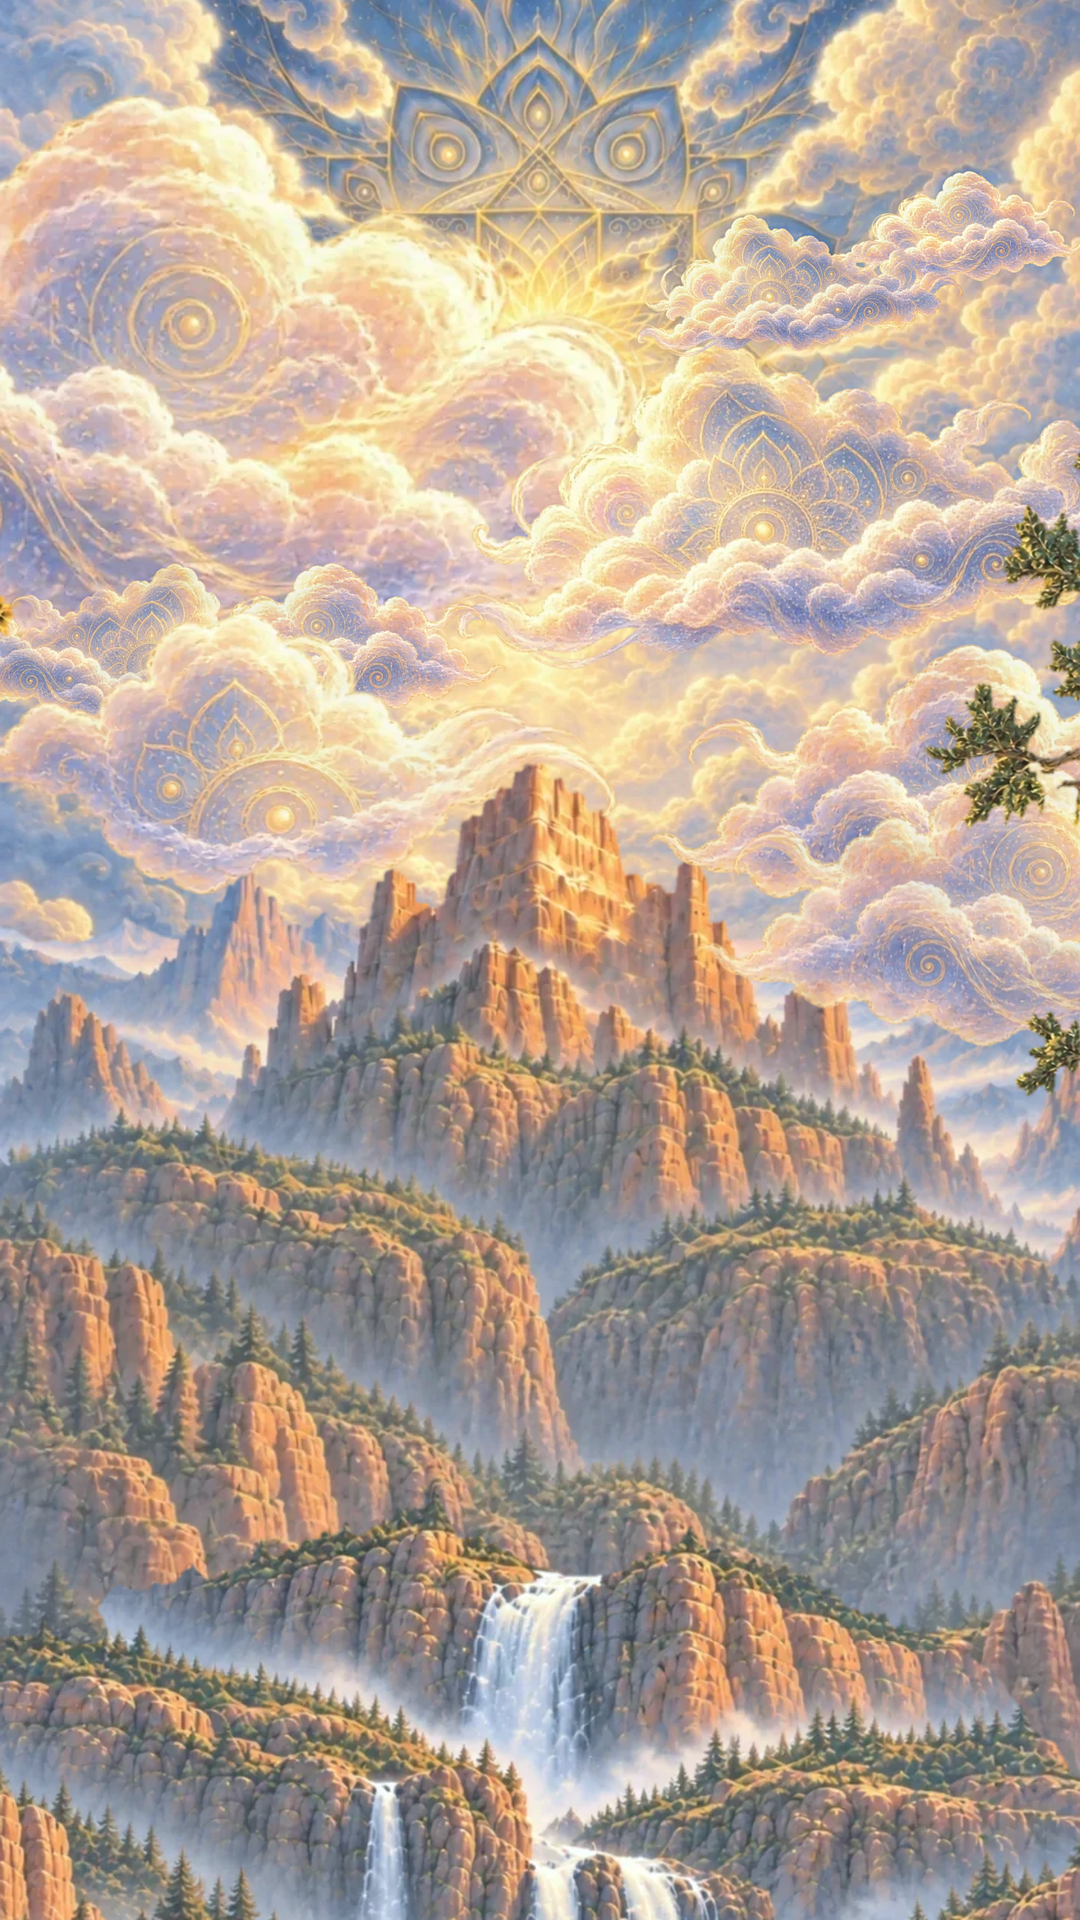
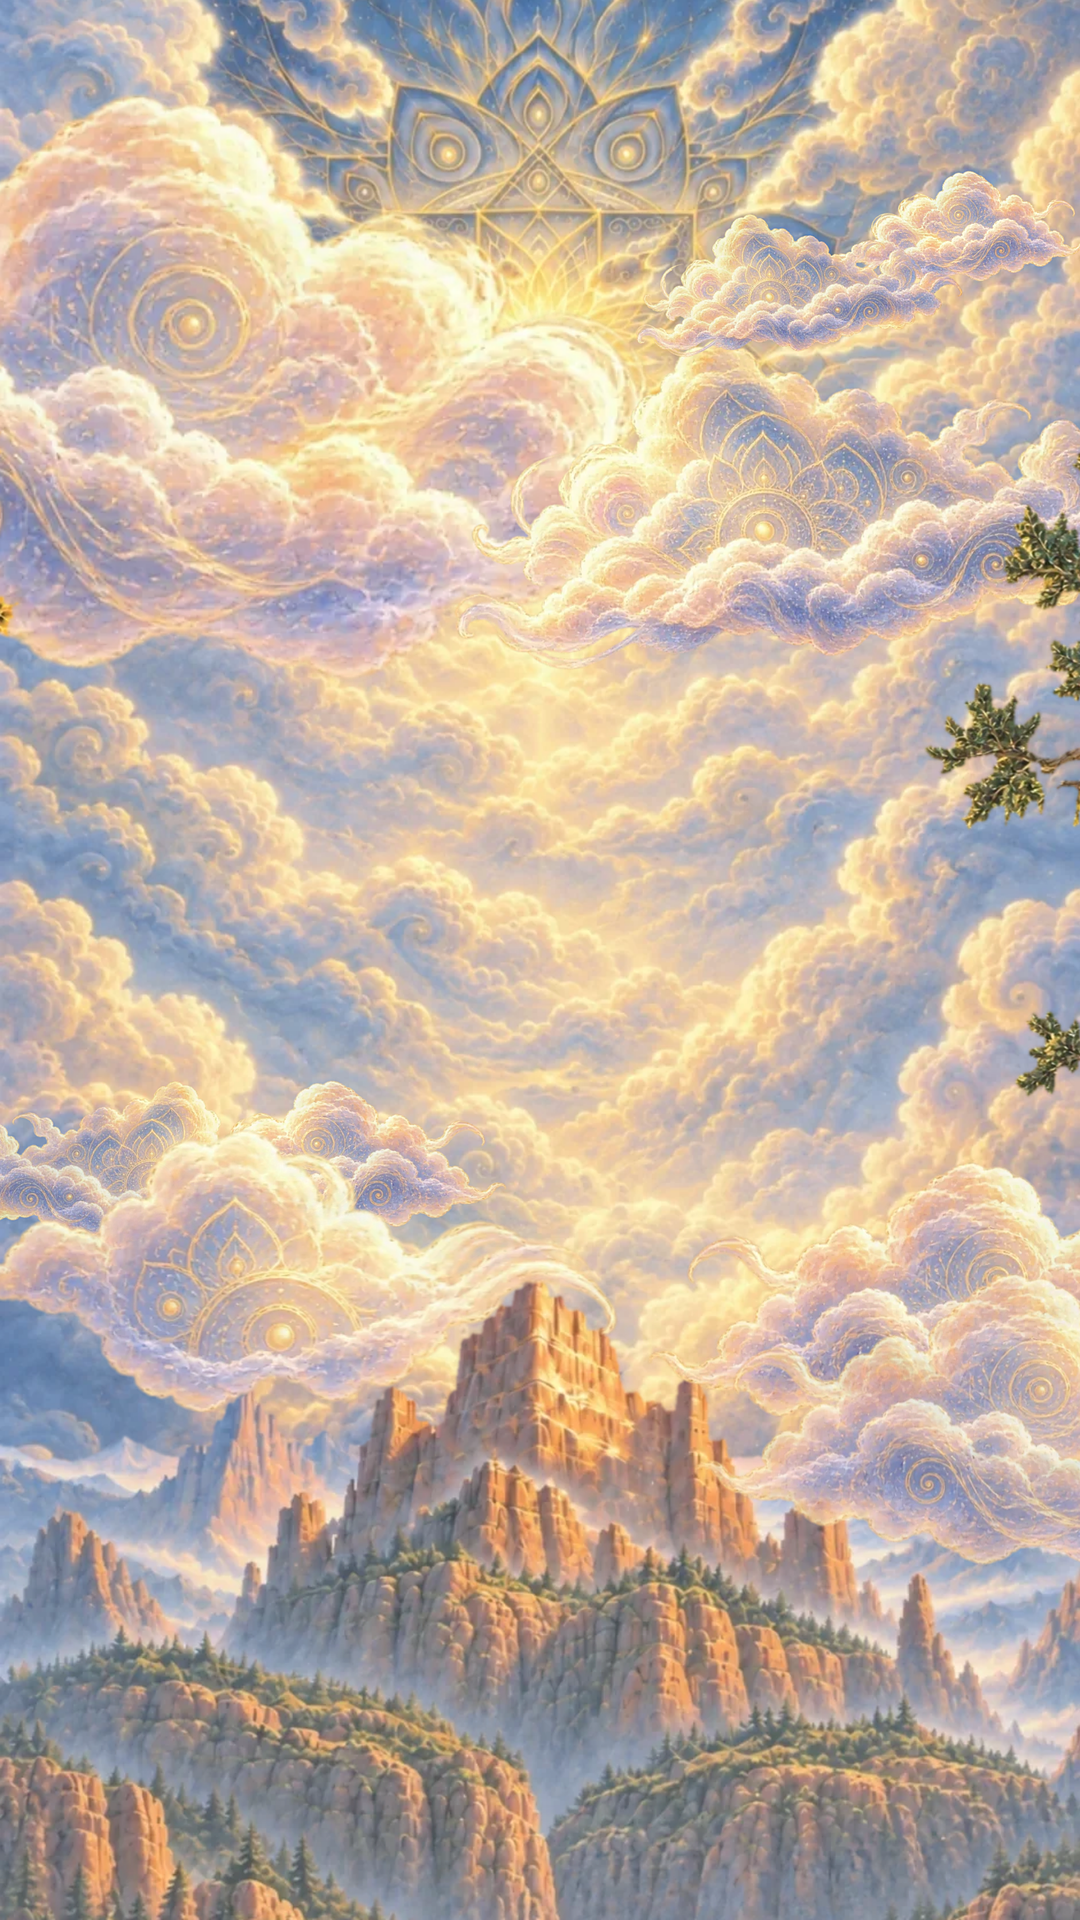
World v3 landing: land starts 27% lower (more sky); rock-side clouds moved down with it
Claude-Session: https://claude.ai/code/session_01X5u2D9a4RRbbCvwnE6RQKF

diff --git a/prototype/world-v3-preview/trev-world-scroll.html b/prototype/world-v3-preview/trev-world-scroll.html
@@ -44,8 +44,8 @@ const LOGO = { aspect: 1280 / 667, ax: 0.5015, ay: 0.4418 };
 const DESCENT_SVH = 236, SCROLL_EASE = 5, PART_RANGE = 0.9;
 const LAYERS = [
   { key: "sky",        w: 941,   x: 0,     y: -290,  from: [0, -120],  span: [0, 1] }, // sinks 120px so the sun ends up behind the castle
-  { key: "mountains",  w: 941,   x: 0,     y: 5,     from: [0, 300],   span: [0, 1] },
-  { key: "falls",      w: 941,   x: 0,     y: 160,   from: [0, 760],   span: [0, 1] },
+  { key: "mountains",  w: 941,   x: 0,     y: 5,     from: [0, 751],   span: [0, 1] },
+  { key: "falls",      w: 941,   x: 0,     y: 160,   from: [0, 1211],   span: [0, 1] },
   { key: "forest",     w: 941,   x: 0,     y: 45,   from: [0, 1150],  span: [0.05, 1] },
   { key: "river",      w: 941,   x: 0,     y: 425,   from: [0, 1400],  span: [0.1, 1] },
   { key: "bison",      w: 127,   x: 406.9, y: 900.8, from: [0, 1400],  span: [0.1, 1] },
@@ -61,11 +61,11 @@ const CLOUDS = [ // randomized (seeded search): ~40% of the sky above the rock c
   { src: "burnell-world-cloud-large.webp", after: "sky", depth: 0.5, w: 660, x0: 720, y0: 440, dir: 1, op: 0.97, flip: true },
   { src: "burnell-world-cloud-medium.webp", after: "mountains", depth: 0.35, w: 226, x0: 839, y0: 198, dir: 1, op: 0.93, flip: true },
   { src: "burnell-world-cloud-large.webp", after: "mountains", depth: 0.35, w: 285, x0: 704, y0: 249, dir: 1, op: 0.91, flip: true },
-  { src: "burnell-world-cloud-medium.webp", after: "mountains", depth: 0.35, w: 326, x0: 285, y0: 561, dir: -1, op: 0.88, flip: true },
-  { src: "burnell-world-cloud-large.webp", after: "mountains", depth: 0.35, w: 344, x0: 100, y0: 566, dir: -1, op: 0.83 },
-  { src: "burnell-world-cloud-small.webp", after: "falls", depth: 0.65, w: 571, x0: 246, y0: 657, dir: -1, op: 0.91 },
-  { src: "burnell-world-cloud-medium.webp", after: "falls", depth: 0.65, w: 602, x0: 858, y0: 692, dir: 1, op: 0.91 },
-  { src: "burnell-world-cloud-medium.webp", after: "foreground", depth: 1.0, w: 597, x0: 902, y0: 788, dir: 1, op: 0.81 },
+  { src: "burnell-world-cloud-medium.webp", after: "mountains", depth: 0.35, w: 326, x0: 285, y0: 1012, dir: -1, op: 0.88, flip: true },
+  { src: "burnell-world-cloud-large.webp", after: "mountains", depth: 0.35, w: 344, x0: 100, y0: 1017, dir: -1, op: 0.83 },
+  { src: "burnell-world-cloud-small.webp", after: "falls", depth: 0.65, w: 571, x0: 246, y0: 1108, dir: -1, op: 0.91 },
+  { src: "burnell-world-cloud-medium.webp", after: "falls", depth: 0.65, w: 602, x0: 858, y0: 1143, dir: 1, op: 0.91 },
+  { src: "burnell-world-cloud-medium.webp", after: "foreground", depth: 1.0, w: 597, x0: 902, y0: 1239, dir: 1, op: 0.81 },
 ];
 const world = document.getElementById("world");
 const sunsetEl = document.createElement("canvas"); sunsetEl.id = "sunset"; sunsetEl.width = 941; sunsetEl.height = 1672;
